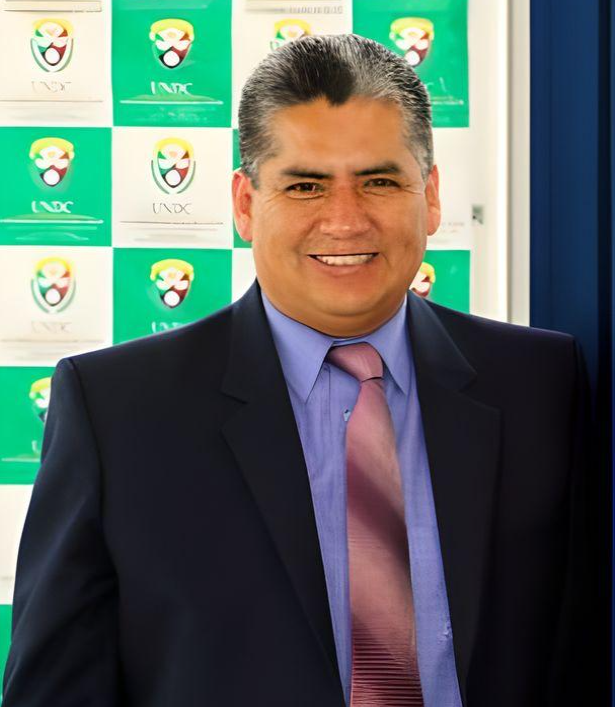
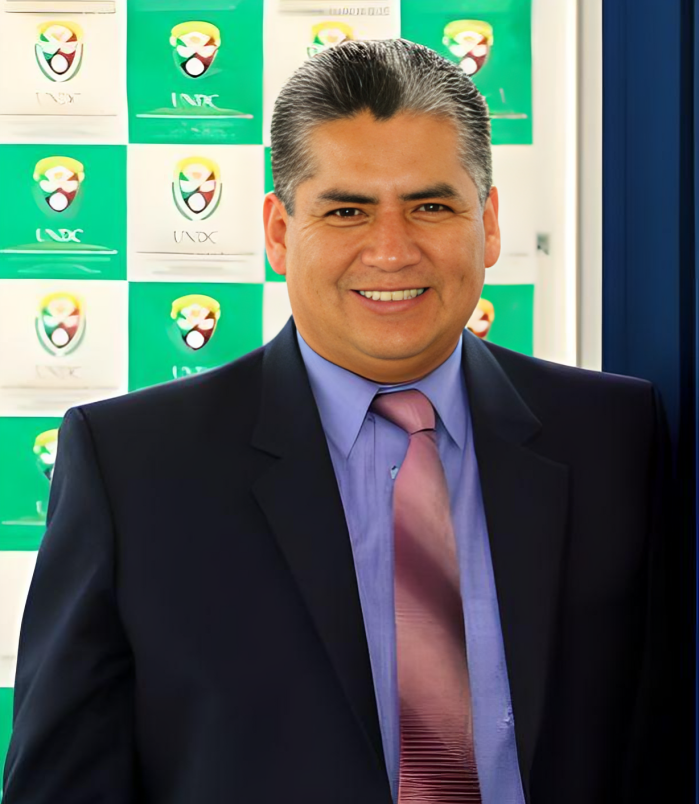
add fotos de docentes

diff --git a/src/pages/Nosotros.jsx b/src/pages/Nosotros.jsx
@@ -3,136 +3,147 @@ import Footer from '../shared/Footer'
 import Almidon from '../assets/c-almidon.png'
 import Roque from '../assets/e-roque.jpg'
 import Asto from '../assets/l-asto.png'
+import Vicente from '../assets/w-vicente.png'
+import Oseda from '../assets/d-oseda.png'
+import Duran from '../assets/a-duran.png'
+import Angoma from '../assets/m-angoma.png'
+import Pacheco from '../assets/a-pacheco.png'
+import Larico from '../assets/g-larico.png'
 
 const Nosotros = () => {
   return (
     <>
       <Navbar />
-      {/*Dr Almidon*/}
-      <div class="min-w-screen mt-12 min-h-screen flex items-center p-10 lg:p-10 overflow-hidden relative">
-        <div class="w-full max-w-6xl rounded shadow-xl p-10 lg:p-10 mx-auto text-gray-800 relative md:text-left">
-          <div class="md:flex items-center -mx-10">
-            <div class="w-full md:w-1/2 px-10 mb-10 md:mb-0">
-              <div class="relative">
-                <img src={Almidon} class="w-full relative z-10" alt="" />
-                <div class="border-4 absolute top-10 bottom-10 left-10 right-10 z-0"></div>
+      <section class="max-w-6xl mx-auto px-4 sm:px-6 lg:px-4 py-12">
+        <h1 class="mt-24 font-bold text-3xl md:text-4xl lg:text-5xl text-center font-heading text-gray-900">
+          Autoridades de la Facultad de Ingeniería
+        </h1>
+        {/*Dr Almidon*/}
+        <div class="flex items-center -mt-8 p-10 lg:p-10 overflow-hidden relative">
+          <div class="w-full max-w-6xl rounded shadow-xl p-10 lg:p-10 mx-auto text-gray-800 relative md:text-left">
+            <div class="md:flex items-center -mx-10">
+              <div class="w-full md:w-1/2 px-10 mb-10 md:mb-0">
+                <div class="relative">
+                  <img src={Almidon} class="w-full relative z-10" alt="" />
+                  <div class="border-4 absolute top-10 bottom-10 left-10 right-10 z-0"></div>
+                </div>
               </div>
-            </div>
-            <div class="w-full md:w-1/2 px-10">
-              <div class="mb-10">
-                <h1 class="font-bold text-2xl mb-5">Coordinador (e) de la Facultad de Ingeniería <br />Dr. Carlos Alcides Almidon Ortiz</h1>
-                <p class="text-sm text-justify">Lorem ipsum dolor sit, amet consectetur adipisicing, elit. Eos, voluptatum dolorum! Laborum blanditiis consequatur, voluptates, sint enim fugiat saepe, dolor fugit, magnam explicabo eaque quas id quo porro dolorum facilis...</p>
-              </div>
-            </div>
-          </div>
-        </div>
-      </div>
-      {/*Dr Roque*/}
-      <div class="min-w-screen min-h-screen flex items-center p-10 lg:p-10 overflow-hidden relative">
-        <div class="w-full max-w-6xl rounded shadow-xl p-10 lg:p-10 mx-auto text-gray-800 relative md:text-left">
-          <div class="md:flex items-center -mx-10">
-            <div class="w-full md:w-1/2 px-10 mb-10 md:mb-0">
-              <div class="relative">
-                <img src={Roque} class="w-full relative z-10" alt="" />
-                <div class="border-4 absolute top-10 bottom-10 left-10 right-10 z-0"></div>
-              </div>
-            </div>
-            <div class="w-full md:w-1/2 px-10">
-              <div class="mb-10">
-                <h1 class="font-bold text-2xl mb-5">Director (e) del Departamento Académico de Ingenieria de Sistemas<br />Dr. Edwin Roque Tito</h1>
-                <p class="text-sm text-justify">Docente Universitario de Pre y Posgrado, con experiencia en: Proyectos de desarrollo de software, implementación de sistemas de información en
-                  todas sus etapas, administración de base de datos y sistemas operativos; orientados al logro de objetivos y cumplir metas organizacionales. Formación profesional en
-                  constante actualización, aprovecho cada momento y espacio del que hacer universitario; Ingeniero de Sistemas de profesión, Magister Scientiae en Informática por
-                  la Universidad Nacional del Altiplano, Doctor en Ingeniería de Sistemas por la Universidad Nacional Federico Villarreal, Maestría en Integración e Innovación de
-                  TI en la PUCP y segunda Especialidad en Formulación y Evaluación de Proyectos de Inversión en la UNA; mi objetivo personal es formar parte de un gran equipo de trabajo,
-                  donde pueda aportar mi experiencia en el área de Ingeniería de sistemas y telecomunicaciones, y continuar con mi desarrollo profesional.</p>
+              <div class="w-full md:w-1/2 px-10">
+                <div class="mb-10">
+                  <h1 class="font-bold text-2xl mb-5">Cordinador (e) de la Facultad de Ingeniería <br />Dr. Carlos Alcides Almidón Ortiz</h1>
+                  <p class="text-sm text-justify">Lorem ipsum dolor sit, amet consectetur adipisicing, elit. Eos, voluptatum dolorum! Laborum blanditiis consequatur, voluptates, sint enim fugiat saepe, dolor fugit, magnam explicabo eaque quas id quo porro dolorum facilis...</p>
+                </div>
               </div>
             </div>
           </div>
         </div>
-      </div>
-      {/*Mg Asto*/}
-      <div class="min-w-screen  min-h-screen flex items-center p-10 lg:p-10 overflow-hidden relative">
-        <div class="w-full max-w-6xl rounded shadow-xl p-10 lg:p-10 mx-auto text-gray-800 relative md:text-left">
-          <div class="md:flex items-center -mx-10">
-            <div class="w-full md:w-1/2 px-10 mb-10 md:mb-0">
-              <div class="relative">
-                <img src={Asto} class="w-full relative z-10" alt="" />
-                <div class="border-4 absolute top-10 bottom-10 left-10 right-10 z-0"></div>
+        {/*Dr Roque*/}
+        <div class="flex items-center p-10 lg:p-10 overflow-hidden relative">
+          <div class="w-full max-w-6xl rounded shadow-xl p-10 lg:p-10 mx-auto text-gray-800 relative md:text-left">
+            <div class="md:flex items-center -mx-10">
+              <div class="w-full md:w-1/2 px-10 mb-10 md:mb-0">
+                <div class="relative">
+                  <img src={Roque} class="w-full relative z-10" alt="" />
+                  <div class="border-4 absolute top-10 bottom-10 left-10 right-10 z-0"></div>
+                </div>
               </div>
-            </div>
-            <div class="w-full md:w-1/2 px-10">
-              <div class="mb-10">
-                <h1 class="font-bold text-2xl mb-5">Director (e) de la Escuela Profesional de Ingeniería de Sistemas<br />Mg. Leonidas Asto Huamán</h1>
-                <p class="text-sm text-justify">De profesión, Ingeniero Informático y Sistemas con maestría en Informática, candidato a doctor en Ingeniería de Sistemas. Docente, con experiencia
-                  en universidades públicas y privadas. Asesor de tesis. Áreas de investigación: Machine Learning, Redes Neuronales, Interacción Humano Computador, IoT, Sistemas Inteligentes,
-                  Procesamiento Natural y BI. Con capacidad analizar, diseñar, construir, evaluar, diagnosticar, auditar y mantener sistemas informáticos aplicados en las diferentes áreas del
-                  conocimiento. Dedicado a la Administración de Sistemas GNU/Linux.</p>
+              <div class="w-full md:w-1/2 px-10">
+                <div class="mb-10">
+                  <h1 class="font-bold text-2xl mb-5">Director (e) del Departamento Académico de Ingenieria de Sistemas<br />Dr. Edwin Roque Tito</h1>
+                  <p class="text-sm text-justify">Docente Universitario de Pre y Posgrado, con experiencia en: Proyectos de desarrollo de software, implementación de sistemas de información en
+                    todas sus etapas, administración de base de datos y sistemas operativos; orientados al logro de objetivos y cumplir metas organizacionales. Formación profesional en
+                    constante actualización, aprovecho cada momento y espacio del que hacer universitario; Ingeniero de Sistemas de profesión, Magister Scientiae en Informática por
+                    la Universidad Nacional del Altiplano, Doctor en Ingeniería de Sistemas por la Universidad Nacional Federico Villarreal, Maestría en Integración e Innovación de
+                    TI en la PUCP y segunda Especialidad en Formulación y Evaluación de Proyectos de Inversión en la UNA; mi objetivo personal es formar parte de un gran equipo de trabajo,
+                    donde pueda aportar mi experiencia en el área de Ingeniería de sistemas y telecomunicaciones, y continuar con mi desarrollo profesional.</p>
+                </div>
               </div>
             </div>
           </div>
         </div>
-      </div>
+        {/*Mg Asto*/}
+        <div class="flex items-center p-10 lg:p-10 overflow-hidden relative">
+          <div class="w-full max-w-6xl rounded shadow-xl p-10 lg:p-10 mx-auto text-gray-800 relative md:text-left">
+            <div class="md:flex items-center -mx-10">
+              <div class="w-full md:w-1/2 px-10 mb-10 md:mb-0">
+                <div class="relative">
+                  <img src={Asto} class="w-full relative z-10" alt="" />
+                  <div class="border-4 absolute top-10 bottom-10 left-10 right-10 z-0"></div>
+                </div>
+              </div>
+              <div class="w-full md:w-1/2 px-10">
+                <div class="mb-10">
+                  <h1 class="font-bold text-2xl mb-5">Director (e) de la Escuela Profesional de Ingeniería de Sistemas<br />Mg. Leonidas Asto Huamán</h1>
+                  <p class="text-sm text-justify">De profesión, Ingeniero Informático y Sistemas con maestría en Informática, candidato a doctor en Ingeniería de Sistemas. Docente, con experiencia
+                    en universidades públicas y privadas. Asesor de tesis. Áreas de investigación: Machine Learning, Redes Neuronales, Interacción Humano Computador, IoT, Sistemas Inteligentes,
+                    Procesamiento Natural y BI. Con capacidad analizar, diseñar, construir, evaluar, diagnosticar, auditar y mantener sistemas informáticos aplicados en las diferentes áreas del
+                    conocimiento. Dedicado a la Administración de Sistemas GNU/Linux.</p>
+                </div>
+              </div>
+            </div>
+          </div>
+        </div>
+      </section>
       {/*Plana Docentes*/}
       <section class="max-w-6xl mx-auto px-4 sm:px-6 lg:px-4 py-12">
         <div class="text-center pb-12">
           <h1 class="font-bold text-3xl md:text-4xl lg:text-5xl font-heading text-gray-900">
-            Plana Docente del Departamento Académico de Ingeniería de Sistemas
+            Docentes Odinarios
           </h1>
         </div>
         <div class="grid grid-cols-1 sm:grid-cols-2 md:grid-cols-2 lg:grid-cols-3 gap-6">
-          <div class="w-full bg-white rounded-lg sahdow-lg overflow-hidden flex flex-col justify-center items-center">
+          <div class="w-full bg-white rounded-lg shadow-lg overflow-hidden flex flex-col justify-center items-center">
             <div>
-              <img class="object-center object-cover h-auto w-full" src="https://images.unsplash.com/flagged/photo-1570612861542-284f4c12e75f?ixid=MnwxMjA3fDB8MHxwaG90by1wYWdlfHx8fGVufDB8fHx8&ixlib=rb-1.2.1&auto=format&fit=crop&w=1170&q=80" alt="photo" />
+              <img class="object-center object-cover h-auto w-full" src={Vicente} alt="photo" />
             </div>
             <div class="text-center py-8 sm:py-6">
-              <p class="text-xl text-gray-700 font-bold mb-2">Dany Bailey</p>
-              <p class="text-base text-gray-400 font-normal">Software Engineer</p>
+              <p class="text-xl text-gray-700 font-bold mb-2">Dr. Wagner Vicente Ramos</p>
+              <p class="text-base text-gray-400 font-normal">Director General (e) de la Escuela de Posgrado de la UNDC</p>
             </div>
           </div>
-          <div class="w-full bg-white rounded-lg sahdow-lg overflow-hidden flex flex-col justify-center items-center">
+          <div class="w-full bg-white rounded-lg shadow-lg overflow-hidden flex flex-col justify-center items-center">
             <div>
-              <img class="object-center object-cover h-auto w-full" src="https://images.unsplash.com/photo-1438761681033-6461ffad8d80?ixid=MnwxMjA3fDB8MHxwaG90by1wYWdlfHx8fGVufDB8fHx8&ixlib=rb-1.2.1&auto=format&fit=crop&w=1170&q=80" alt="photo" />
+              <img class="object-center object-cover h-auto w-full" src={Oseda} alt="photo" />
             </div>
             <div class="text-center py-8 sm:py-6">
-              <p class="text-xl text-gray-700 font-bold mb-2">Lucy Carter</p>
-              <p class="text-base text-gray-400 font-normal">Graphic Designer</p>
+              <p class="text-xl text-gray-700 font-bold mb-2">Ph.D. Dulio Oseda Gago</p>
+              <p class="text-base text-gray-400 font-normal">Director (e) del Centro de Investigación Científica de la UNDC</p>
             </div>
           </div>
-          <div class="w-full bg-white rounded-lg sahdow-lg overflow-hidden flex flex-col justify-center items-center">
+          <div class="w-full bg-white rounded-lg shadow-lg overflow-hidden flex flex-col justify-center items-center">
             <div>
-              <img class="object-center object-cover h-auto w-full" src="https://images.unsplash.com/photo-1487412720507-e7ab37603c6f?ixid=MnwxMjA3fDB8MHxwaG90by1wYWdlfHx8fGVufDB8fHx8&ixlib=rb-1.2.1&auto=format&fit=crop&w=1171&q=80" alt="photo" />
+              <img class="object-center object-cover h-auto w-full" src={Duran} alt="photo" />
             </div>
             <div class="text-center py-8 sm:py-6">
-              <p class="text-xl text-gray-700 font-bold mb-2">Jade Bradley</p>
-              <p class="text-base text-gray-400 font-normal">Dev Ops</p>
+              <p class="text-xl text-gray-700 font-bold mb-2">Mg. Amanda Durán Carhuamaca</p>
+              <p class="text-base text-gray-400 font-normal">Director (e) de la Unidad de investigación de la Facultad de Ingeniería</p>
             </div>
           </div>
-          <div class="w-full bg-white rounded-lg sahdow-lg overflow-hidden flex flex-col justify-center items-center">
+          <div class="w-full bg-white rounded-lg shadow-lg overflow-hidden flex flex-col justify-center items-center">
             <div>
-              <img class="object-center object-cover h-auto w-full" src="https://images.unsplash.com/flagged/photo-1570612861542-284f4c12e75f?ixid=MnwxMjA3fDB8MHxwaG90by1wYWdlfHx8fGVufDB8fHx8&ixlib=rb-1.2.1&auto=format&fit=crop&w=1170&q=80" alt="photo" />
+              <img class="object-center object-cover h-auto w-full" src={Angoma} alt="photo" />
             </div>
             <div class="text-center py-8 sm:py-6">
-              <p class="text-xl text-gray-700 font-bold mb-2">Dany Bailey</p>
-              <p class="text-base text-gray-400 font-normal">Software Engineer</p>
+              <p class="text-xl text-gray-700 font-bold mb-2">Dra. Miriam Angoma Astucuri</p>
+              <p class="text-base text-gray-400 font-normal">Director (e) de la Unidad de Posgrado de la Facultad de Ingeniería</p>
             </div>
           </div>
-          <div class="w-full bg-white rounded-lg sahdow-lg overflow-hidden flex flex-col justify-center items-center">
+          <div class="w-full bg-white rounded-lg shadow-lg overflow-hidden flex flex-col justify-center items-center">
             <div>
-              <img class="object-center object-cover h-auto w-full" src="https://images.unsplash.com/photo-1438761681033-6461ffad8d80?ixid=MnwxMjA3fDB8MHxwaG90by1wYWdlfHx8fGVufDB8fHx8&ixlib=rb-1.2.1&auto=format&fit=crop&w=1170&q=80" alt="photo" />
+              <img class="object-center object-cover h-auto w-full" src={Pacheco} alt="photo" />
             </div>
             <div class="text-center py-8 sm:py-6">
-              <p class="text-xl text-gray-700 font-bold mb-2">Lucy Carter</p>
-              <p class="text-base text-gray-400 font-normal">Graphic Designer</p>
+              <p class="text-xl text-gray-700 font-bold mb-2">Mg. Alex Pacheco Pumaleque</p>
+              <p class="text-base text-gray-400 font-normal">Director (e) de la Unidad de Innovación y Estudios Continuos de la Facultad de Ingeniería</p>
             </div>
           </div>
-          <div class="w-full bg-white rounded-lg sahdow-lg overflow-hidden flex flex-col justify-center items-center">
+          <div class="w-full bg-white rounded-lg shadow-lg overflow-hidden flex flex-col justify-center items-center">
             <div>
-              <img class="object-center object-cover h-auto w-full" src="https://images.unsplash.com/photo-1487412720507-e7ab37603c6f?ixid=MnwxMjA3fDB8MHxwaG90by1wYWdlfHx8fGVufDB8fHx8&ixlib=rb-1.2.1&auto=format&fit=crop&w=1171&q=80" alt="photo" />
+              <img class="object-center object-cover h-auto w-full" src={Larico} alt="photo" />
             </div>
             <div class="text-center py-8 sm:py-6">
-              <p class="text-xl text-gray-700 font-bold mb-2">Jade Bradley</p>
-              <p class="text-base text-gray-400 font-normal">Dev Ops</p>
+              <p class="text-xl text-gray-700 font-bold mb-2">Dr. Guido Larico Uchamaco</p>
+              <p class="text-base text-gray-400 font-normal">Director (e) de la Unidad de RSU de la Facultad de Ingeniería</p>
             </div>
           </div>
         </div>
